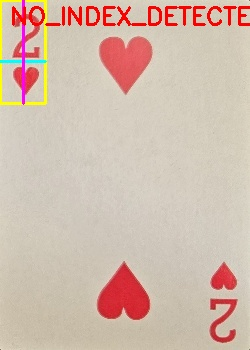
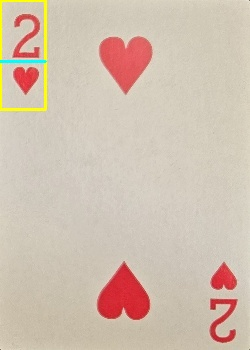
Update README and scripts for card detection improvements; add new crop images and adjust parameters

Changed region(s): [[0.0, 0.0, 1.0, 0.3429]]

diff --git a/extract_crops_and_predict.py b/extract_crops_and_predict.py
@@ -1,0 +1,89 @@
+import cv2
+import numpy as np
+from pathlib import Path
+
+# Патеките
+input_dir = Path("_debug_indices")
+output_dir = Path("crops")
+output_dir.mkdir(exist_ok=True)
+
+# Препорачани параметри (suggested_params)
+roi_w, roi_h = 0.18, 0.312
+split_y_ratio = 0.568
+left_band = 0.48
+max_rel_area = 0.15
+min_area = 19
+
+# Рангирани темплејти (sintetički)
+def synth_rank_templates(font_scale=1.0, thickness=2):
+    chars = ["A","2","3","4","5","6","7","8","9","10","J","Q","K"]
+    out = {}
+    for ch in chars:
+        canvas = np.zeros((56, 56), np.uint8)
+        (tw, th), _ = cv2.getTextSize(ch, cv2.FONT_HERSHEY_SIMPLEX, font_scale, thickness)
+        x = max(1, (canvas.shape[1] - tw) // 2)
+        y = max(th+2, int(0.6*canvas.shape[0]))
+        cv2.putText(canvas, ch, (x, y), cv2.FONT_HERSHEY_SIMPLEX, font_scale, 255, thickness, cv2.LINE_AA)
+        out[ch] = canvas
+    return out
+
+def make_diamond(w=48, h=48):
+    img = np.zeros((h, w), np.uint8)
+    pts = np.array([[int(w*0.50), int(h*0.05)], [int(w*0.92), int(h*0.50)],
+                    [int(w*0.50), int(h*0.95)], [int(w*0.08), int(h*0.50)]], np.int32)
+    cv2.fillConvexPoly(img, pts, 255)
+    return img
+
+def tm_score(img_bin, tpl_bin):
+    ih, iw = img_bin.shape
+    th, tw = tpl_bin.shape
+    if th > ih or tw > iw:
+        scale = min(ih / th, iw / tw)
+        tpl_bin = cv2.resize(tpl_bin, (max(1,int(tw*scale)), max(1,int(th*scale))), interpolation=cv2.INTER_AREA)
+    res = cv2.matchTemplate(img_bin, tpl_bin, cv2.TM_CCOEFF_NORMED)
+    return float(res.max()) if res.size else -1.0
+
+def binarize(gray):
+    blur = cv2.GaussianBlur(gray, (3, 3), 0)
+    _, threshed = cv2.threshold(blur, 0, 255, cv2.THRESH_BINARY_INV + cv2.THRESH_OTSU)
+    return threshed
+
+# Темплејти
+rank_templates = synth_rank_templates()
+diamond_template = make_diamond()
+
+# Процесирање на сите слики
+for file in sorted(input_dir.glob("*.jpg")):
+    img = cv2.imread(str(file))
+    gray = cv2.cvtColor(img, cv2.COLOR_BGR2GRAY)
+
+    H, W = gray.shape[:2]
+    roi_x1, roi_y1 = 0, 0
+    roi_x2 = int(W * roi_w)
+    roi_y2 = int(H * roi_h)
+    roi = gray[roi_y1:roi_y2, roi_x1:roi_x2]
+    split_y = int((roi_y2 - roi_y1) * split_y_ratio)
+
+    rank = roi[:split_y, :]
+    suit = roi[split_y:, :]
+
+    rank_bin = binarize(rank)
+    suit_bin = binarize(suit)
+
+    # Класификација на ранг
+    best_rank, best_rank_score = "?", -1
+    for name, tpl in rank_templates.items():
+        score = tm_score(rank_bin, tpl)
+        if score > best_rank_score:
+            best_rank, best_rank_score = name, score
+
+    # Класификација на боја
+    suit_score = tm_score(suit_bin, diamond_template)
+    suit_name = "diamonds" if suit_score > 0.5 else "unknown"
+
+    # Зачувување
+    name_base = file.stem
+    cv2.imwrite(str(output_dir / f"{name_base}_rank.png"), rank_bin)
+    cv2.imwrite(str(output_dir / f"{name_base}_suit.png"), suit_bin)
+
+    print(f"{file.name}: Predicted -> {best_rank} {suit_name} (scores: {best_rank_score:.2f}, {suit_score:.2f})")

diff --git a/read_indices_from_out_cards_v2.py b/read_indices_from_out_cards_v2.py
@@ -406,7 +406,7 @@ def process_folder(in_dir: Path, out_json: Path, debug_dir: Optional[Path],
                 cv2.line(vis, (rx1, sy_abs), (rx2, sy_abs), (255,255,0), 2)
                 # left band line
                 lx_abs = dbg["left_band_abs"]
-                cv2.line(vis, (lx_abs, ry1), (lx_abs, ry2), (255,0,255), 2)
+                #cv2.line(vis, (lx_abs, ry1), (lx_abs, ry2), (255,0,255), 2)
                 # candidate boxes if any
                 if dbg.get("rank_box_roi"):
                     rbx, rby, rbw, rbh = dbg["rank_box_roi"]
@@ -414,7 +414,6 @@ def process_folder(in_dir: Path, out_json: Path, debug_dir: Optional[Path],
                 if dbg.get("suit_box_roi"):
                     sbx, sby, sbw, sbh = dbg["suit_box_roi"]
                     cv2.rectangle(vis, (rx1+sbx, ry1+sby), (rx1+sbx+sbw, ry1+sby+sbh), (0,255,0), 3)
-                cv2.putText(vis, "NO_INDEX_DETECTED", (10, 24), cv2.FONT_HERSHEY_SIMPLEX, 0.8, (0, 0, 255), 2)
                 cv2.imencode('.jpg', vis)[1].tofile(str(debug_dir / f"{p.stem}_layout.jpg"))
             continue
 
@@ -443,7 +442,7 @@ def process_folder(in_dir: Path, out_json: Path, debug_dir: Optional[Path],
             cv2.line(vis, (rx1, sy_abs), (rx2, sy_abs), (255,255,0), 2)
             # left band line
             lx_abs = dbg["left_band_abs"]
-            cv2.line(vis, (lx_abs, ry1), (lx_abs, ry2), (255,0,255), 2)
+            #cv2.line(vis, (lx_abs, ry1), (lx_abs, ry2), (255,0,255), 2)
             # chosen boxes
             draw_box(vis, out["suit_bbox_xyxy"], (0, 200, 0), f"{out['suit']} {out['suit_score']:.2f}")
             draw_box(vis, out["rank_bbox_xyxy"], (255, 0, 0), f"{out['rank']} {out['rank_score']:.2f}")

diff --git a/README.md b/README.md
@@ -4,8 +4,12 @@ python cards_otsu_detect.py test2.jpg --warp-dir out_cards --mask-out mask.png -
 
 # 2) стартувај со debug оверлеи:
 
-python read_indices_from_out_cards_v2.py --in_dir out_cards --templates templates --debug
+python read_indices_from_out_cards.py --in_dir out_cards --templates templates --debug
 
 # ако пак не фаќа, пробај:
 
-python read_indices_from_out_cards_v2.py --idx_frac 0.38 --suit_min 0.40 --rank_min 0.40 --debug
+python read_indices_from_out_cards.py --idx_frac 0.38 --suit_min 0.40 --rank_min 0.40 --debug
+
+$ python read_indices_from_out_cards_v2.py --in_dir out_cards --roi_w 0.18 --roi_h 0.296 --split_y 0.598 --left_band 0.513 --max_rel_area 0.15 --min_area 18 --debug
+
+python extract_crops_and_predict.py
